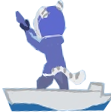
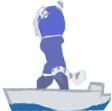
basic hand movement

diff --git a/src/models/Player.ts b/src/models/Player.ts
@@ -12,13 +12,14 @@ import PumpState from "~/statemachine/Pump";
 
 export default class Player extends Phaser.GameObjects.Container
 {
-    scene: GameScene
+    scene!: GameScene
     body!: Phaser.Physics.Arcade.Body
     stateMachine: StateMachine
-    pumpText: Text;
+    pumpText!: Text;
     health: number;
 
-    _sprite: Phaser.GameObjects.Sprite
+    private readonly hand: Phaser.GameObjects.Sprite
+    readonly _sprite: Phaser.GameObjects.Sprite
     _inputs: Phaser.Input.InputPlugin;
     _keyE: Phaser.Input.Keyboard.Key;
 
@@ -29,51 +30,32 @@ export default class Player extends Phaser.GameObjects.Container
     constructor(scene: Phaser.Scene, x: number, y: number)
     {
         super(scene, x, y)
-        this.scene = <GameScene>scene;
-        this.health = scene['MAX_HEALTH'];
+        this.health = this.scene.MAX_HEALTH;
 
         this._sprite = scene.add.sprite(0, 0,  K.Player)
-            .setOrigin(0.5, 0.5)
+            .setOrigin(0.5, 0.5);
         this.add(this._sprite)
 
-        this.pumpText = scene.add.text( 10,-20  , '(E)', {
-            fontFamily: 'Comic Neue',
-            fontSize: '24px',
-            color: 'blue',
-            fontStyle: 'bold'
-        }).setVisible(false);
-        this.add(this.pumpText);
-        this.scene.tweens.add({
-            targets: this.pumpText,
-            alpha: { value: 0, duration: 250 },
-            yoyo: true,
-            loop: -1
-        })
+        this.hand = scene.add.sprite(-5, -10,  K.Hand)
+            .setOrigin(0.9, 0.9);
+        this.add(this.hand)
+
+        this.addPumpButton()
+
         scene.physics.add.existing(this)
         scene.add.existing(this)
 
-        const body = this.body as Phaser.Physics.Arcade.Body
-        body.setSize(this._sprite.width * 0.8, this._sprite.height * 0.9)
+        this.body.setSize(this._sprite.width * 0.8, this._sprite.height * 0.9)
             .setOffset(this._sprite.width * -0.4, -this._sprite.height * 0.4 )
             .setCollideWorldBounds(true)
-            .setDragX(200);
+            .setDragX(200)
+            .setMaxVelocityY(10);
 
         this._keyE = scene.input.keyboard.addKey('e');
         this._inputs = scene.input;
 
         this.stateMachine = new StateMachine(this, 'player')
         this.addStates()
-
-        this.body.setMaxVelocityY(10)
-    }
-
-    addStates() {
-        this.stateMachine
-            .addState(S.Idle, IdleState)
-            .addState(S.Charging, ChargeState)
-            .addState(S.Hurt, HurtState)
-            .addState(S.Pumping, PumpState)
-            .setState(S.Idle)
     }
 
     tryPump() {
@@ -84,13 +66,12 @@ export default class Player extends Phaser.GameObjects.Container
     }
 
     shoot() {
-        let angle = Phaser.Math.Angle.Between(this.x, this.y, this._inputs.activePointer.x, this._inputs.activePointer.y);
+        let angle = this.hand.rotation + 180;
         this.scene.bullets.create(this.x , this.y, String(angle), 550)
         this.body.setVelocityX( -Math.cos(angle) * 300)
     }
-
     shootIce() {
-        let angle = Phaser.Math.Angle.Between(this.x, this.y, this._inputs.activePointer.x, this._inputs.activePointer.y);
+        let angle = this.hand.rotation + 180;
         this.scene.icicles.create(this.x , this.y, angle+'', 800)
         this.body.setVelocityX( -Math.cos(angle) * 500 )
     }
@@ -114,9 +95,40 @@ export default class Player extends Phaser.GameObjects.Container
         this.pumpText.setVisible(this.isHurt);
     }
 
+
+    private addPumpButton() {
+        this.pumpText = this.scene.add.text( 10,-20  , '(E)', {
+            fontFamily: 'Comic Neue',
+            fontSize: '24px',
+            color: 'blue',
+            fontStyle: 'bold'
+        }).setVisible(false);
+        this.add(this.pumpText);
+        this.scene.tweens.add({
+            targets: this.pumpText,
+            alpha: { value: 0, duration: 250 },
+            yoyo: true,
+            loop: -1
+        })
+    }
+
+    private addStates() {
+        this.stateMachine
+            .addState(S.Idle, IdleState)
+            .addState(S.Charging, ChargeState)
+            .addState(S.Hurt, HurtState)
+            .addState(S.Pumping, PumpState)
+            .setState(S.Idle)
+    }
+
     private preUpdate()
     {
-     //   this.scene.debug.text = this.inputs.activePointer.getDuration()/60
+        let angle = Phaser.Math.Angle.Between(this.x, this.y, this._inputs.activePointer.x, this._inputs.activePointer.y);
+        angle = Phaser.Math.Angle.Normalize(angle);
+
+        if (angle > 0.75*Math.PI || angle < Math.PI/5) { // except lower ~quarter of a circle
+            this.hand.rotation = angle-180;             // I have no idea what's going on here
+        }
     }
 
 }

diff --git a/src/models/Icicle.ts b/src/models/Icicle.ts
@@ -17,6 +17,7 @@ export default class Icicle extends Projectile
         this.body.setSize(this.level*10,this.level*10)
         this.integrity = this.level * 2;
         this.scene.waterLevel -= this.VOLUME;
+        this.body.onWorldBounds = true;
 
         this.scene.physics.add.overlap(this, this.scene.blobs, this.pierceBlob)
         this.scene.physics.world.on('worldbounds', this.collideWalls, this)
@@ -46,7 +47,7 @@ export default class Icicle extends Projectile
     }
 
     collidePlayer(projectile, player) {
-        if (this.scene.game.config.physics.arcade?.debug)
+        if (this.scene.physics.world.drawDebug)
             return;
         this.scene.scene.stop('game');
         this.scene.scene.start('gameover', {})
@@ -56,7 +57,7 @@ export default class Icicle extends Projectile
         super.delayedCall(...etc);
         this.setBounce(1);
 
-        if (this.level == 1)
+        if (this.level == 1)    // half the gravity
             this.setAccelerationY(-(this.scene.game.config.physics.arcade?.gravity || 200)/2)
     }
 }

diff --git a/src/scenes/Game.ts b/src/scenes/Game.ts
@@ -49,6 +49,7 @@ export default class GameScene extends Phaser.Scene
         this.load.image(K.HpBar, 'hpbar.png')
         this.load.image(K.Ice, 'ice.png')
         this.load.image(K.Shards, 'shard.png')
+        this.load.image(K.Hand, 'hand.png')
     }
 
     init() {
@@ -74,7 +75,7 @@ export default class GameScene extends Phaser.Scene
             color: 'red',
             fontStyle: 'normal'
         });
-        this.physics.world.drawDebug = false;
+        this.physics.world.drawDebug = !!this.game.config.physics.arcade?.debug;
         this.debug.setVisible(this.physics.world.drawDebug);
         this.toggleDebug = this.input.keyboard.addKey(Phaser.Input.Keyboard.KeyCodes.P);
     }

diff --git a/src/models/Shards.ts b/src/models/Shards.ts
@@ -52,14 +52,14 @@ export default class Shard extends Projectile
     collideWalls() {}
 
     collideWater() {
-        this.setAccelerationX(0)
+        this.setAccelerationX(0).setDragX(120);
         this.setVelocityY(-20)
 
         if (!this.timer) {
             this.timer = this.scene.time.addEvent({
                 delay: this.LIFE * 1000,
                 callback: () => {
-                    if (this.scene.game.config.physics.arcade?.debug)
+                    if (this.scene.physics.world.drawDebug)
                         return;
                     this.scene.shards.killAndHide(this);
                     this.disableBody(true, true);

diff --git a/src/statemachine/Hurt.ts b/src/statemachine/Hurt.ts
@@ -14,7 +14,7 @@ export default abstract class HurtState implements Omit<IState, 'name'> {
              ease: Phaser.Math.Easing.Linear,
              onUpdate: tween => {
                 const value = tween.getValue()
-                this._sprite.setAlpha(value/100)
+                this.setAlpha(value/100)
              },
              onComplete: () => {
                 this.stateMachine.setState(S.Idle)

diff --git a/src/const/TextureKeys.ts b/src/const/TextureKeys.ts
@@ -9,7 +9,8 @@ enum keys {
     HpBar,
     Dead,
     Ice,
-    Shards
+    Shards,
+    Hand
 }
 
 
